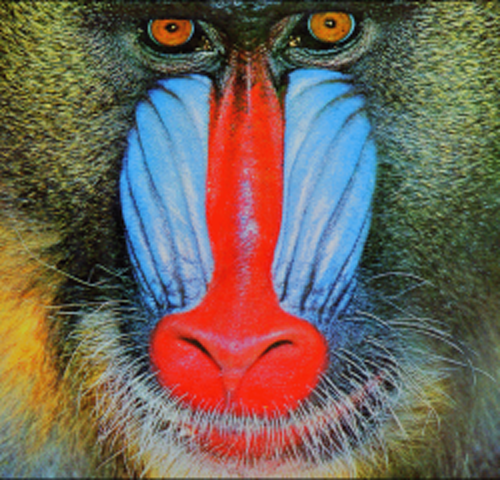
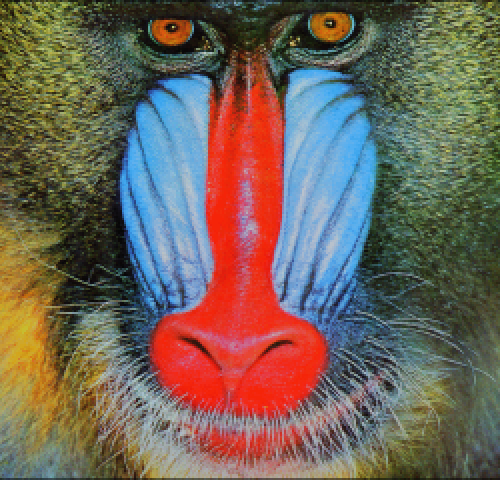
update

diff --git a/output.py b/output.py
@@ -25,7 +25,7 @@ def evaluate(model, scale=2, concat=True, summary=True):
         image = cv2.resize(
             image, (dim[1] // scale, dim[0] // scale), interpolation=cv2.INTER_AREA
         )
-        image = cv2.resize(image, (dim[1], dim[0]), interpolation=cv2.INTER_CUBIC)
+        image = cv2.resize(image, (dim[1], dim[0]), interpolation=cv2.INTER_LANCZOS4)
         interpolated = image
 
         # Write Interpolated

diff --git a/README.md b/README.md
@@ -65,7 +65,7 @@ If you find that the model takes too long to run, or you run out of memory, try 
 ## How can you train your own model?
 The model is instantiated within [`network.py`](https://github.com/JoshVEvans/Super-Resolution/blob/master/network.py). You can play around with hyper-parameters there. First, to train the model, delete the images currently within `data/` put your training image data within that file - I recommend the [DIV2K dataset](https://data.vision.ee.ethz.ch/cvl/DIV2K/). Finally, mess with hyper-parameters in [`train.py`](https://github.com/JoshVEvans/Super-Resolution/blob/master/train.py) and run `train.py`. If you’re training on weaker hardware, I’d recommend lowering the `batch_size` below the currently set ***8*** images. Also, decrease the number of (`residual blocks`) from `24 to 9` and reduce the number of filters (`num_filters`) from `128 to 64`.
 
-## Qualitative Examples:
+## Qualitative Examples (click on the images for higher quality):
 #### Set 5 Evaluation Set:
 Images Left to Right: Original, Nearest Neighbor, Predicted.
 ![alt text](evaluation/Combined/baboon.png)
